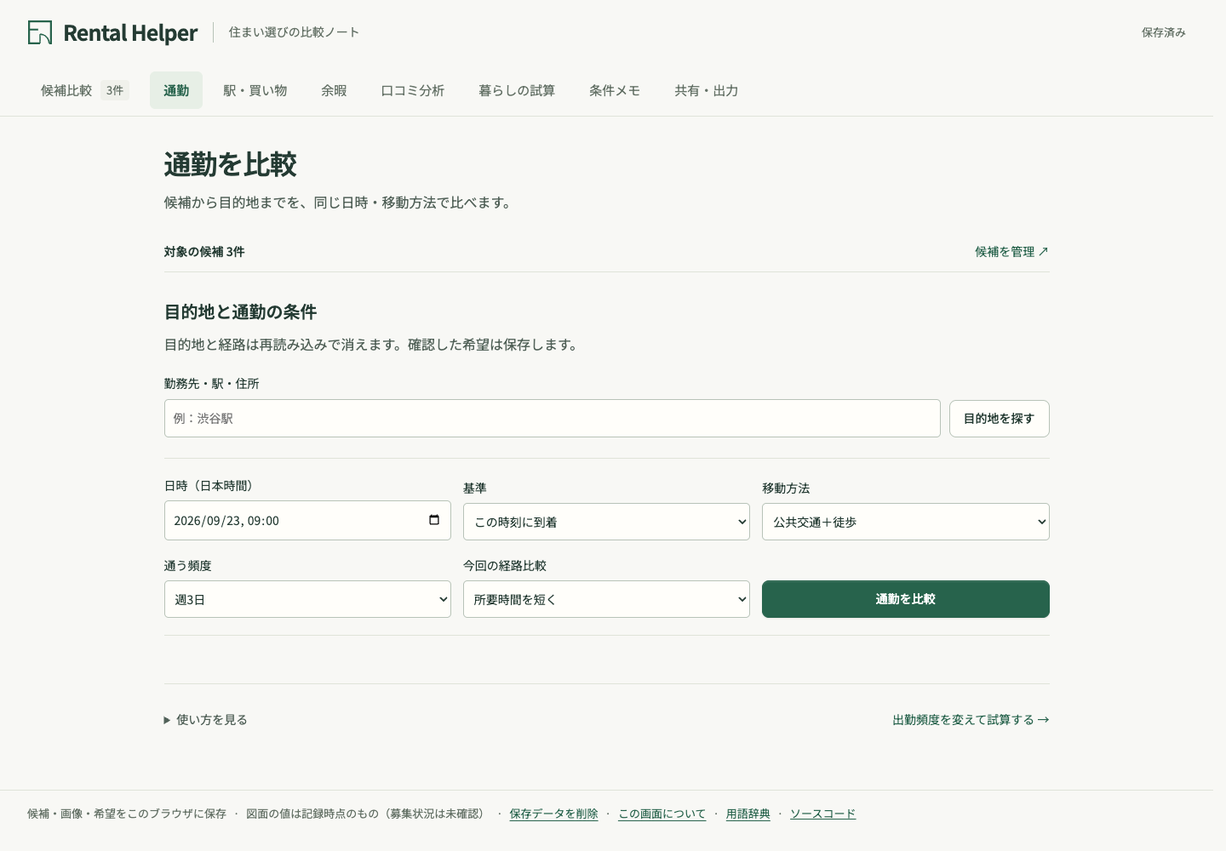
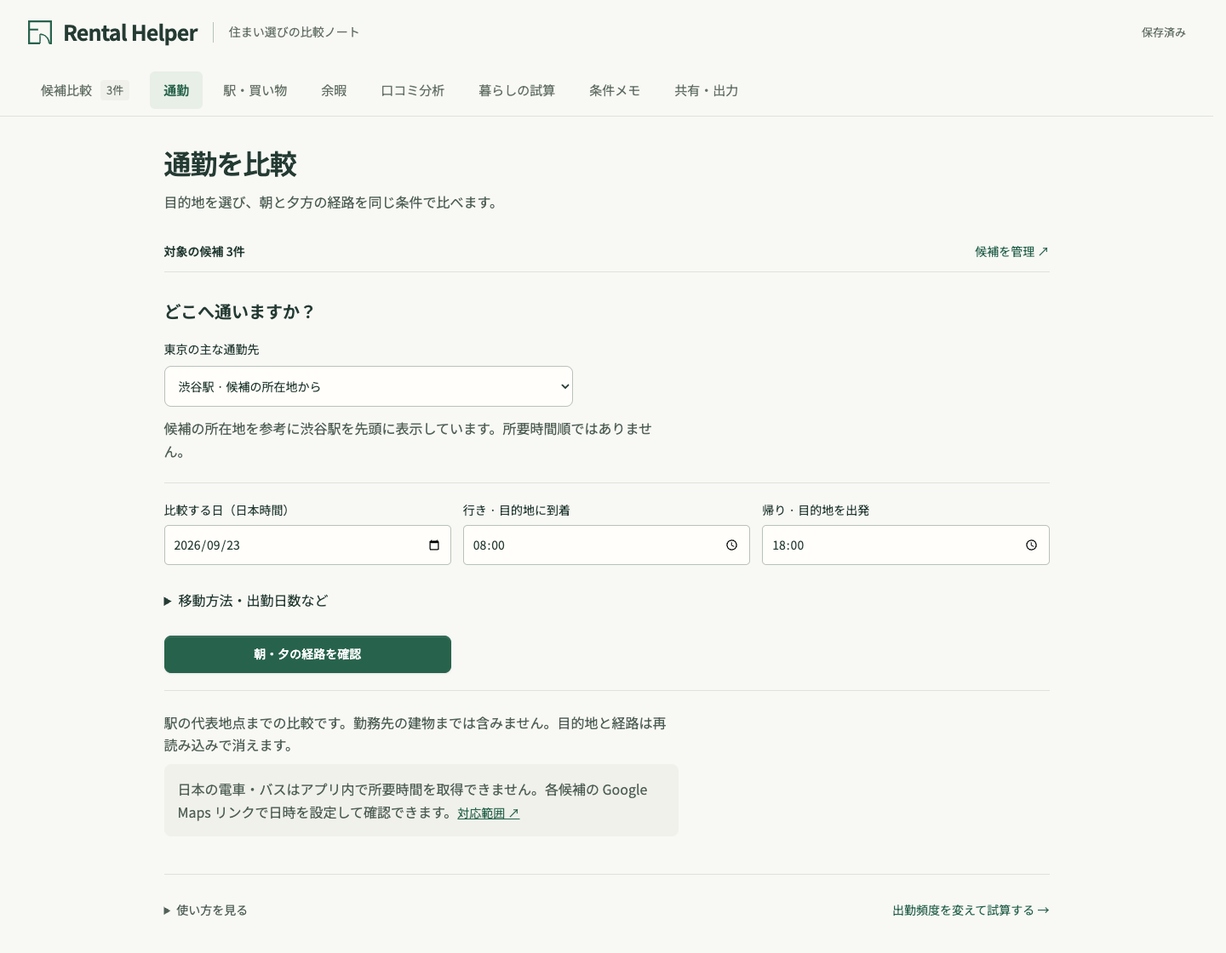
Document commute defaults and Japan transit coverage limits

diff --git a/docs/VALIDATION.md b/docs/VALIDATION.md
@@ -4,16 +4,16 @@ This log distinguishes implemented behavior, deterministic checks, and actual pr
 
 | Check | Evidence/result | Interpretation |
 | --- | --- | --- |
-| `npm test` | 103 frontend + 126 backend passed; 2 optional real-OCR tests skipped | Logic and provider contracts pass with stubs; not a model accuracy benchmark. |
+| `npm test` | 108 frontend + 130 backend passed; 2 optional real-OCR tests skipped | Logic and provider contracts pass with stubs; not a model accuracy benchmark. |
 | Browser workflow | Desktop/mobile, destination confirmation, partial commute failure, leisure confirmation, scenario frequency, review-to-question, nearby/empty review states, generated memo, share defaults and HTML download | Google/Gemini responses stubbed; no synthetic results are shipped as live observations. |
-| UI polish checks | `npm run smoke:ui` passed: keyboard/focus, Escape/outside dismissal, interrupted native dialogs, reduced motion, open/closed sheet resizing, 320/390/760 px touch layouts, 16 px form inputs, dark mode. `npm run smoke:browser` and 103 frontend tests passed again after UI changes. | Chromium and touch emulation; real phone keyboard/safe-area/gesture checks remain open. [Design decisions](UI_DESIGN.md). |
+| UI polish checks | `npm run smoke:ui` passed: keyboard/focus, Escape/outside dismissal, interrupted native dialogs, reduced motion, open/closed sheet resizing, 320/390/760 px touch layouts, 16 px form inputs, dark mode. `npm run smoke:browser` and 108 frontend tests passed again after UI changes. | Chromium and touch emulation; real phone keyboard/safe-area/gesture checks remain open. [Design decisions](UI_DESIGN.md). |
 | Type/layout refinement | `npm run smoke:ui` checks the 16 px body baseline, 761/800/1024 px desktop navigation and folded help, in addition to all eight mobile pages. Screenshots refreshed after simplifying headings, candidate scope and export placement. | Local Chromium; providers are stubbed for layout/workflow checks. |
 | Feature navigation | All eight pages reachable from desktop tabs/mobile dropdown; Back/Forward retains drafts; reload and old deep links select the right page; all pages fit 320/390/760 px. Full stubbed-provider/share workflow passes through the new tabs. | Navigation retains mounted feature instances; it does not revalidate live provider coverage. |
 | Compose configuration | `docker compose ... config --quiet` passed; local Docker daemon was unavailable | API image build is left to CI; no local image-build claim. |
 | GitHub CI for the feature release | [Run 35641505498](https://github.com/SodaShikenn/rental-helper/actions/runs/35641505498) passed frontend, backend and Docker build/Compose jobs | The image built on GitHub; the public API has not been deployed. |
 | Local sharing | Real backend: create → separate reader → revoke → reader receives not-found | SQLite and revocation work locally; not a public backend deployment. |
-| Live destination search | Google returned 新宿駅 | Place search is accessible with the configured key. |
-| Live Tokyo transit | Public address 東京都渋谷区神南1丁目19-11 → 新宿駅, next-day schedule: **no routes returned** | Transit coverage is unresolved. The UI reports this and links to Maps; it does not substitute walking-to-station or invented routes. |
+| Live destination search | Google returned two exact Tokyo 渋谷駅 entities on 2026-09-22 | Search works; the menu retains an explicit choice when station identity is ambiguous. |
+| Live Tokyo round trip | 2026-09-22 14:15 JST: all three sample buildings → first exact Tokyo 渋谷駅 match; 2026-09-23 08:00 arrival / 18:00 return departure: all six directions **no_route**. WALK for ルーブル渋谷松濤 succeeded in both directions. | Places, precise geocoding and WALK work. [Google excludes Japan transit](https://developers.google.com/maps/faq#transit_directions_countries); a different provider is required for those durations. The UI keeps missing values and Maps links. |
 | Live leisure | Same public origin, park category: 2 places, 2 walking routes returned | This Places/WALK slice succeeded. It does not establish exhaustive coverage or suitability for running. |
 | Live building review matching | ルーブル渋谷松濤 408号室 / 東京都渋谷区富ヶ谷2丁目20-18: **no confirmed matching place** | Correctly refused to attach another entity's reviews. Live review display for a matched building remains to be validated. |
 | Automatic web reviews | `POST /api/reviews/web` for GRAN PASEO明大前Ⅳ / 東京都世田谷区羽根木2-28-19 returned HTTP 503 `upstream_busy` in 2.8 s | Search failed; no review or empty-success result was fabricated. Successful live retrieval is still unverified. |
@@ -40,3 +40,7 @@ The review update adds deterministic tests for source-bound identity, Roman-nume
 ## Recheck before a public API launch
 
 Test representative Japan transit journeys with a provider that actually returns them, validate public-web review retrieval, source identity and room scope against real buildings, rerun Gemini extraction/research/advice, then verify public HTTPS, origin configuration, rate limits, persistence and share revocation. Measure provider latency/cost and tenant usability rather than deriving them from passing unit tests.
+
+## Morning/evening commute checks
+
+New deterministic checks cover area-based hub suggestions, unknown-area behavior, ambiguous station identities, Japan-time defaults across weekends/OS timezones, return-time validation, exact origin/destination reversal, distinct arrival/departure timestamps, partial return failures, and round-trip totals that remain unknown when either leg is missing. Browser checks cover the preset-to-location flow, automatic submission after a disambiguation choice, clearing stale results, custom search, and both morning/return displays. An existing share-revocation smoke-test race was corrected by awaiting the revoke response before reloading the reader.

diff --git a/README.md b/README.md
@@ -29,7 +29,7 @@ Desktop: choose a top tab. Mobile: use **機能を選ぶ**. Each page puts its c
 | Open the demo at… | What to do there |
 | --- | --- |
 | [候補比較 — compare](https://sodashikenn.github.io/rental-helper/#compare) | Add images/links, compare facts, and confirm candidate-based priorities with AI or numeric questions. |
-| [通勤 — commute](https://sodashikenn.github.io/rental-helper/#commute) | Confirm a work destination and compare scheduled routes. |
+| [通勤 — commute](https://sodashikenn.github.io/rental-helper/#commute) | Choose a Tokyo hub (Shibuya first for these samples), with 08:00 arrival / 18:00 return defaults. |
 | [駅・買い物 — essentials](https://sodashikenn.github.io/rental-helper/#surroundings) | Check each candidate's listed walking claims against Maps. |
 | [余暇 — leisure](https://sodashikenn.github.io/rental-helper/#leisure) | Find nearby parks, gyms and cafés before discussing preferences. |
 | [口コミ分析 — review analysis](https://sodashikenn.github.io/rental-helper/#reviews) | Automatically search public web reviews for a candidate, inspect sources/unit scope, and use the resulting analysis without writing requirements. |
@@ -82,7 +82,7 @@ Saving is specific to this browser. Maps observations and conversations containi
 <details>
 <summary><strong>Explore the new modules: commute, leisure, reviews and sharing</strong></summary>
 
-- **通勤:** find and confirm a destination, set a Japan-time schedule, then compare returned journeys. Confirm the route objective only after seeing evidence.
+- **通勤:** choose from eight Tokyo hubs or search a work address. The sample areas suggest Shibuya; this is a starting point, not a preference or time ranking. Defaults are 08:00 arrival / 18:00 return departure, Japan time. Outbound and return are queried independently.
 - **余暇:** retrieve actual options first, choose an activity/frequency, then explicitly accept its importance. “None” and “not sure” are valid.
 - **暮らしの試算:** vary days per week and see which explanations change. Missing rent/routes stay unknown.
 - **口コミ分析:** select a candidate; the app searches the room, then its building, then up to three Maps-verified neighboring residences within 300 m. Read source-linked summaries with the actual building and distance, then choose which concerns matter. If none are found, the review area stays blank.
@@ -92,7 +92,7 @@ Saving is specific to this browser. Maps observations and conversations containi
 
 [![Share preview and privacy options](docs/images/sharing.png)](docs/images/sharing.png)
 
-These screenshots show the actual forms and preview, without fabricated provider results.
+These screenshots show the actual forms and preview, without fabricated provider results. Google officially [excludes Japan from Routes API transit coverage](https://developers.google.com/maps/faq#transit_directions_countries). Live checks on September 22 confirmed destination search, precise geocoding and walking routes; all six transit directions across the three sample buildings were empty. The UI states this limit and provides outbound/return Maps links; set the desired time again in Maps.
 
 [Follow the implementation through the repository →](docs/CODE_TOUR.md)
 
@@ -108,12 +108,12 @@ These screenshots show the actual forms and preview, without fabricated provider
 | Station and grocery walking checks | Geocoding + Places (New) + WALK Routes integrated; previous local live checks succeeded. |
 | Candidate-based AI conversation | Implemented with cited context and explicit preference confirmation; live-provider reliability remains under evaluation. |
 | Preference fit, generated memo and local saving | Implemented; IndexedDB includes uploaded images and eligible conversation history. |
-| Commute and scenario comparison | Implemented; one confirmed destination/schedule, alternatives and explicit priorities. Live Tokyo transit query returned **no routes**; Maps fallback and coverage follow-up remain. |
+| Commute and scenario comparison | Implemented: hub menu, 08:00/18:00 defaults, separate outbound/return results and weekly totals only when both exist. **Google Routes does not cover Japan transit**; walking works, public-transport times need another provider. |
 | Leisure discovery | Implemented; real parks/gyms/cafés, optional regular destination, frequency/importance confirmation. Live park/WALK slice succeeded. |
 | Automatic review analysis | Implemented: room → building → nearby residential references within 300 m. Empty evidence stays blank; no manual diary or requirement entry. Live GRAN PASEO search returned Gemini busy; successful retrieval and source coverage still need validation. |
 | Brief export and sharing | HTML preview/download; backend links expire in 1–7 days and support revocation. Public sharing requires API hosting. |
 
-**Validation:** 229 tests passed on September 22, 2026: 103 frontend and 126 backend; 2 real-OCR tests skipped. Browser checks cover desktop/mobile, pair selection, keyboard navigation, confirmation, persistence, source details, and stale AI response rejection with a stubbed provider. Earlier checks also covered automatic research. Recent full-candidate Gemini calls returned service-busy responses, so full live conversational/research quality is not claimed. [Detailed validation record](docs/VALIDATION.md).
+**Validation:** 238 tests passed on September 22, 2026: 108 frontend and 130 backend; 2 real-OCR tests skipped. Browser checks cover desktop/mobile, pair selection, keyboard navigation, confirmation, persistence, source details, and stale AI response rejection with a stubbed provider. Earlier checks also covered automatic research. Recent full-candidate Gemini calls returned service-busy responses, so full live conversational/research quality is not claimed. [Detailed validation record](docs/VALIDATION.md).
 
 ## What this project demonstrates
 

diff --git a/PRODUCT.md b/PRODUCT.md
@@ -22,9 +22,9 @@ The tenant supplies candidates first. The app analyzes them and offers grounded 
 | Walking access | Google Geocoding, Places (New), and WALK Routes check recognized station/amenity claims and nearby essentials. | Listing walk is separate from scheduled commute; real-world conditions are not guaranteed. |
 | AI discovery | Gemini analyzes candidate evidence, asks a focused question, cites supplied evidence IDs and proposes priorities; the tenant must accept a proposal. | Broad conversational quality remains unevaluated; citations validate references, not every interpretation. |
 | Preference comparison | Confirmed budget, listed station-walk and area limits produce fit/conflict/unknown explanations. Narrative preferences and unresolved questions enter the memo. | No overall ranking. Narrative preferences do not automatically become numeric scores. |
-| Commute | Confirm a destination, choose Japan-time arrival/departure, mode and frequency; compare returned alternatives by duration, transfers or walking; confirm intent. | Live Tokyo TRANSIT check returned no routes. Maps fallback is available; Japan transit coverage remains unresolved. |
+| Commute | Select a Tokyo hub or confirm a searched destination; default to 08:00 arrival / 18:00 return departure in Japan time. Retrieve both directions independently; compare returned alternatives and confirm intent. | Google officially excludes Japan transit from Routes API. Live six-direction check returned no routes; walking worked. Maps links are available; in-app Japanese public-transport times need another provider. |
 | Leisure | Parks/gyms/cafés, dated WALK observations, named regular destination, frequency/importance confirmation. | Max 2/category within 1.5 km by straight-line distance; not exhaustive. Hours and activity suitability require verification. |
-| Scenarios | Change weekly frequency; compare known monthly cost, selected commute objective, outbound-time estimates and accepted leisure interests. | No hidden total score; no invented return journey, fares or data for missing routes. |
+| Scenarios | Change weekly frequency; compare known monthly cost, selected commute objective, outbound/round-trip estimates (only when both legs exist) and accepted leisure interests. | No hidden total score; no invented return journey, fares or data for missing routes. |
 | Reviews | Automatically search public apartment-review sites/posts on entering the review page or changing candidate. Show cited AI summaries, matched building/address, unit scope and explicit nearby references. | Public retrieval is not exhaustive; summaries do not prove residency or current conditions. Live GRAN PASEO request returned Gemini busy; successful live review retrieval remains open. |
 | Takeaway/sharing | Automatically generated, read-only/copyable memo, HTML download, content preview, optional personal details, 1–7 day SQLite-backed links and owner revocation. | Shared links require a reachable API. Images/eligible chat are local HTML only; provider routes and review text are excluded. Single-instance storage; no accounts. |
 | Persistence | IndexedDB saves candidates, image blobs, answers, preferences, eligible conversation history; deletion control included. | Local to browser/origin. Maps observations and conversations reproducing them are temporary; accepted preferences persist. |
@@ -99,7 +99,7 @@ IndexedDB stores user work. Uploaded images may be saved locally; server-side ex
 
 ## Validation and release state
 
-- **2026-09-22:** `npm test` — 103 frontend + 126 backend tests passed; 2 real-OCR tests skipped. Covers calculations, uncertainty, matching, automatic research, stale-response rejection, proposals, provider errors and storage boundaries.
+- **2026-09-22:** `npm test` — 108 frontend + 130 backend tests passed; 2 real-OCR tests skipped. Covers calculations, uncertainty, matching, automatic research, stale-response rejection, proposals, provider errors and storage boundaries.
 - Browser checks cover desktop/mobile flows, keyboard tabs, mobile pair swapping, question panel focus/resize, contextual AI requests and stale-response rejection with provider stubs, explicit confirmation, memo/image restoration, reference-price details, automatic exact-unit filling with a stubbed provider, and no duplicate lookup after reload.
 - Earlier local live checks confirmed Geocoding, Places and WALK Routes access. A small Gemini request succeeded; full candidate conversations and the latest automatic research check encountered provider busy responses. Full live end-to-end quality remains an open release task.
 - Pages hosts the static app; online research, routes, reviews, advice and shared links need a separately configured API. See the dated [validation record](docs/VALIDATION.md) for actual provider outcomes and the [code tour](docs/CODE_TOUR.md) for module boundaries.

diff --git a/docs/DEVELOPMENT.md b/docs/DEVELOPMENT.md
@@ -112,7 +112,7 @@ Add frontend features through `initApp(app)` in `web/app.js`; add API routers th
 | `POST /api/advise` | Candidate evidence, confirmed priorities and conversation; returns cited insights/questions/options and proposed preferences. |
 
 | `POST /api/destinations` | Search places for explicit destination confirmation. |
-| `POST /api/commutes` | Up to 6 candidates, confirmed destination ID, aware schedule, mode/objective; independent journey results. |
+| `POST /api/commutes` | Up to 6 candidates, confirmed destination ID, aware `at` and optional later `returnAt`, mode/objective; `returnTrip` has independent routes/status and reversed origin/destination. |
 | `POST /api/leisure` | Nearby categories or a confirmed named destination; dated places and WALK routes. |
 | `POST /api/reviews/web` | Automatic room → building → nearby web search; grounded summaries and explicit source identity/distance. Requires Gemini + `RESEARCH_ENABLED`; Maps is additionally required if the room/building tiers are empty and nearby fallback is needed. |
 | `POST /api/reviews/search` | Match building name and origin against returned places. |
@@ -140,7 +140,7 @@ npm run test:server
 git diff --check
 ```
 
-The default test suite uses provider stubs and does not require live API keys. Snapshot on **2026-09-22:** 103 frontend + 126 backend passed, 2 real-OCR tests skipped. Enable optional real OCR with `RUN_OCR_TESTS=1 npm run test:server`; it requires OCR dependencies/models. Provider reliability must be tested separately.
+The default test suite uses provider stubs and does not require live API keys. Snapshot on **2026-09-22:** 108 frontend + 130 backend passed, 2 real-OCR tests skipped. Enable optional real OCR with `RUN_OCR_TESTS=1 npm run test:server`; it requires OCR dependencies/models. Provider reliability must be tested separately.
 
 With both development servers running, `npm run smoke:browser` uses a separate Playwright CLI session. Provider calls are stubbed; sharing uses the real local backend and cleans up its link. It downloads a test HTML brief under ignored `output/playwright/`. The first run downloads the CLI/browser if needed.
 
@@ -175,3 +175,19 @@ Tokens carry read access; the owner has a separate delete secret. SQLite stores 
 Share pages use `share.html#token`, no indexing and no referrer. The reader uses the deployment's configured API URL. A link to localhost is only usable on that machine; a public link needs both a public frontend and reachable HTTPS API. No public backend was provisioned by a Git push.
 
 Review fallback has a 180 s overall backend deadline and a 190 s browser timeout. Each of the at most three search stages makes a grounded search call and, when citations exist, a mapping call. Nearby discovery uses a precise candidate geocode and residential Nearby Search; only the nearest three eligible returned buildings within 300 m are researched. This is bounded discovery, not exhaustive coverage. Failures stop expansion and stay errors. Legacy share-note fields are accepted for compatibility but excluded from newly stored output.
+
+## Commute defaults and live Maps verification
+
+`web/apps/commute/destinations.js` owns the eight curated Tokyo hubs, candidate-area suggestion, unambiguous station matching and next-weekday defaults. Holidays are not detected. A suggestion does not enter saved requirements. `08:00` means arrival at the destination; `18:00` means departure from it, both interpreted as Japan time regardless of the browser timezone. Other schedules remain editable.
+
+`returnAt` is optional for API compatibility, must follow `at`, and stays within the provider time window. Each leg has independent failure handling; a failed return does not discard an available outbound route. Weekly round-trip estimates require both directions. The UI retains each Maps link; official Maps direction URLs do not carry these times, so users must set them again there.
+
+Google [excludes Japan transit from Routes API coverage](https://developers.google.com/maps/faq#transit_directions_countries). Places, Geocoding and WALK availability do not imply electric-rail/bus routing availability. Live time comparison for Japan needs a different transit provider.
+
+To repeat the bounded, **billed** check with configured credentials, from `server/` run:
+
+```sh
+.venv/bin/python -m commands.check_maps
+```
+
+It searches Shibuya station, uses the first exact Tokyo match as a diagnostic target (reports the matching entity count), checks all three public sample buildings in both directions, and independently checks WALK for one building. Only status summaries are printed; keys and full provider route data are neither printed nor persisted. Unlike this diagnostic, the UI asks users to pick when multiple matching station entities exist. `/healthz` reports key configuration only, not live capability.

diff --git a/ROADMAP.md b/ROADMAP.md
@@ -5,7 +5,7 @@ Updated **2026-09-22**. Checked items describe implemented, tested behavior. Ope
 | Milestone | Implementation | Remaining acceptance work |
 | --- | --- | --- |
 | R0 — release | Guided workspace and repeatable test/browser workflow | Public API, real Gemini evaluation, tenant usability study |
-| R1 — commute | Destination confirmation, shared schedule, returned alternatives, explicit intent | Usable Japan public-transit coverage; live three-candidate journey |
+| R1 — commute | Tokyo hub menu, 08:00/18:00 defaults, independent round-trip queries, explicit intent | Usable Japan public-transit coverage; live three-candidate journey |
 | R2 — leisure | Real nearby options, regular destination, frequency/importance confirmation | Broader real-world hours/route evaluation |
 | R3 — scenarios | Frequency, cost, route objective, leisure evidence, missing-value explanations | Evaluate competing objectives with tenants |
 | R4 — reports | Room → building → nearby fallback, cited analysis and evidence-linked choices | Real matched-building display; verified resident-source coverage |
@@ -22,13 +22,15 @@ Updated **2026-09-22**. Checked items describe implemented, tested behavior. Ope
 
 ## R1 — commutes to a work destination
 
+- [x] Suggest a Tokyo hub from candidate areas, preserve an explicit menu choice, and resolve ambiguous station entities visibly.
+- [x] Default to the next Japan weekday (holidays not detected), 08:00 arrival and 18:00 return departure; query and report each direction separately.
 - [x] Confirm a searched destination; require a timezone-aware schedule; compare all candidates with the same arrival/departure time and mode.
 - [x] Show returned duration, walking segments, transfers, boarding/alighting times, fare when supplied, source and retrieval time.
 - [x] Compare returned alternatives by time, fewer transfers or less walking; unknown metrics cannot win.
 - [x] Ask an evidence-based question, require importance confirmation, update the memo, and invalidate changed requests.
 - [x] Test timezone handling, missing routes/fares, partial failures and stale UI results.
 - [x] Run a live Tokyo check: destination search succeeded, but TRANSIT returned no routes. Preserve the missing result and Maps link.
-- [ ] Validate a provider/region combination that returns representative Japanese public-transit journeys. Do not claim Japan transit is working based on the API integration alone.
+- [ ] Integrate and validate a provider covering Japan public transit. [Google explicitly excludes Japan](https://developers.google.com/maps/faq#transit_directions_countries); enabling its Routes API does not remove this coverage limit.
 - [ ] Demonstrate a live three-candidate journey and verify route/fare/time correctness independently.
 
 **Done when:** comparable real journeys support a confirmed tradeoff and memo. Listing station walk never substitutes for commute time. [Google transit contract](https://developers.google.com/maps/documentation/routes/transit-route).
@@ -48,7 +50,7 @@ Updated **2026-09-22**. Checked items describe implemented, tested behavior. Ope
 - [x] Vary the assumed weekly frequency, including no commute; only save that assumption after confirmation.
 - [x] Explain known rent, returned route objectives and confirmed leisure interests per candidate.
 - [x] Preserve shortlist order and explicitly identify missing values. Show dimension-specific advantages among known values, without a total score.
-- [x] Keep one-way outbound totals separate from unobserved return journeys and season-ticket costs.
+- [x] Keep outbound totals separate; calculate round-trip totals only from independently retrieved legs. Missing returns and season-ticket costs remain unknown.
 - [x] Test that a confirmed objective changes route selection, while missing evidence never gains an advantage.
 - [ ] Evaluate explanation quality and conflicting objectives with tenants; extend to a broader set of real routes after R1 coverage is resolved.
 

diff --git a/README.ja.md b/README.ja.md
@@ -28,7 +28,7 @@ PCでは上部のタブ、スマートフォンでは **「機能を選ぶ」** 
 | タブ | できること |
 | --- | --- |
 | 候補比較 | 画像・リンクの追加、数値比較、AIとの希望整理 |
-| 通勤 | 勤務先と日時を指定した経路比較 |
+| 通勤 | 主要駅メニューと朝8時到着・夕18時帰りの経路確認 |
 | 駅・買い物 | 掲載の徒歩時間とMapsの経路を照合 |
 | 余暇 | 公園・ジム・カフェから使いたい場所を考える |
 | 口コミ・内見 | 建物の口コミと本人の内見記録 |
@@ -83,7 +83,7 @@ AI相談は候補を分析してから質問し、回答をもとに希望を提
 | 駅・買い物への徒歩確認 | Geocoding・Places (New)・WALK Routesを接続。以前のローカル実接続確認は成功。 |
 | 候補に基づくAI相談 | 実装済み。出典参照・希望の明示的な承認あり。実会話の品質評価は継続課題。 |
 | 希望との比較・メモ・端末内保存 | 実装済み。再読み込みで復元。 |
-| 勤務先への通勤・シナリオ比較 | 実装済み。同じ目的地・日時で取得経路を比較。東京の実測では公共交通経路が返らず、地域対応は未検証。 |
+| 勤務先への通勤・シナリオ比較 | 主要8駅、所在地に応じた初期候補、8時到着・18時帰り、独立した往復取得を実装。Google Routes API は日本の公共交通に非対応。徒歩は実測成功、電車の時間比較には別プロバイダが必要。 |
 | 余暇の希望発見 | 公園・ジム・カフェを取得してから頻度・重要度を確認。公園と徒歩経路の実接続は成功。 |
 | 建物地点の口コミ・自分の内見記録 | 建物の一致、作者・日付・出典を保持。投稿者の居住は未確認。実例では建物を一致できず、別地点の口コミを取り込まなかった。 |
 | 共有 | 内容プレビュー・HTML出力・期限付きリンク・削除。公開リンクにはバックエンドの公開が必要。 |

diff --git a/docs/UI_DESIGN.md b/docs/UI_DESIGN.md
@@ -76,3 +76,14 @@ The mobile review screenshot uses a stubbed successful empty response to illustr
 A successful search without usable reviews leaves the evidence area blank with a small completed status. Provider failure and pending search remain explicit states. A direct web-search link remains available. Error/results are cached only in memory; changing a candidate cancels and ignores old responses. The automated browser checks stub review retrieval so opening the new page never spends provider quota during those tests.
 
 The retrieval ladder is visible beside the candidate selector: **この部屋 → 同じ建物 → 近隣300m以内**. Nearby summaries have a distinct reference notice, the actual building name/address, a Maps location link and a straight-line distance. They cannot be read as reports about the target apartment. Search stops as soon as a closer evidence tier has usable reviews.
+
+## Destination-first commute
+
+| Before | After |
+| --- | --- |
+| Empty destination search | Eight Tokyo hubs, with Shibuya suggested from these candidates' areas; custom address search remains an explicit menu option |
+| Single 09:00 schedule | Next Japan weekday, 08:00 destination arrival and 18:00 departure for the return; times remain editable |
+| Five settings open at once | Date and morning/evening first; transport mode, frequency and objective under a native disclosure |
+| Single result per candidate | Separate outbound/return legs, status counts and direction-specific Maps links |
+
+The suggestion is a transparent district heuristic, not an inferred job or a shortest-time claim. Multiple exact station matches stay selectable. Destination changes abort pending searches/route calls and clear old observations. Phones put the two time fields side by side; defaults never become confirmed requirements automatically. Japan transit is explicitly marked unavailable under Google's published coverage; no WALK substitution or fabricated durations appear.

diff --git a/docs/CODE_TOUR.md b/docs/CODE_TOUR.md
@@ -15,7 +15,7 @@ Follow **commute comparison** from the screen to the provider and back:
 7. [Provider adapter](../server/providers/google_maps.py) and [normalization](../server/providers/routes.py): HTTP details and missing-field handling. No API key reaches the browser.
 8. [Contract tests](../server/tests/apps/commute/test_commute.py): injected HTTP transport, no provider calls or keys.
 
-The live Tokyo transit test returned no routes. The code retains that result and a Maps link; successful walking access is not presented as proof of transit coverage.
+The [destination module](../web/apps/commute/destinations.js) owns hub suggestions and Japan-time morning/evening defaults. Both route directions are requested independently; only complete pairs produce weekly round-trip estimates. Google officially excludes Japan transit, matching the empty live six-direction test; successful WALK is not evidence of transit coverage. [Repeat the diagnostic](../server/commands/check_maps.py).
 
 ## Feature map
 
